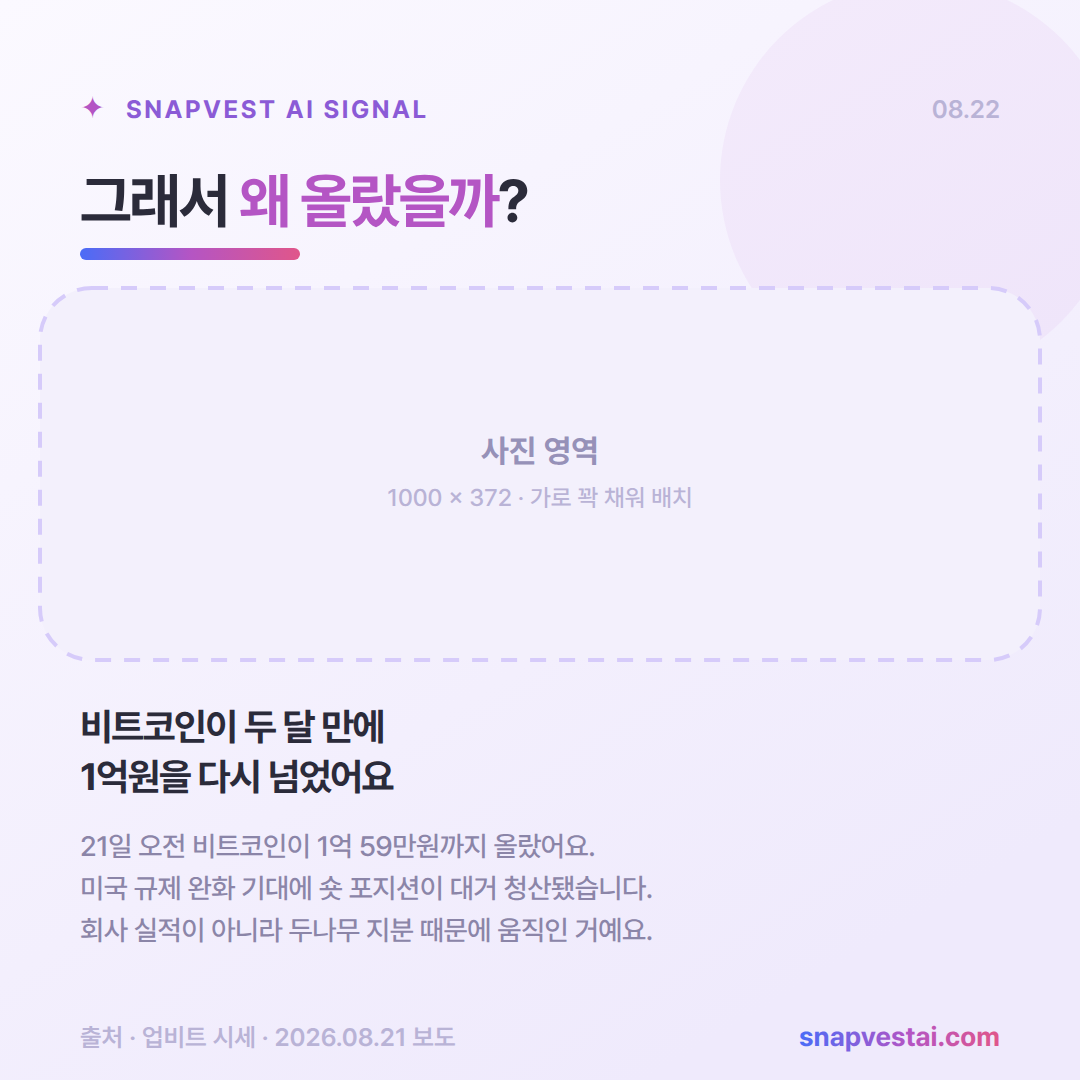
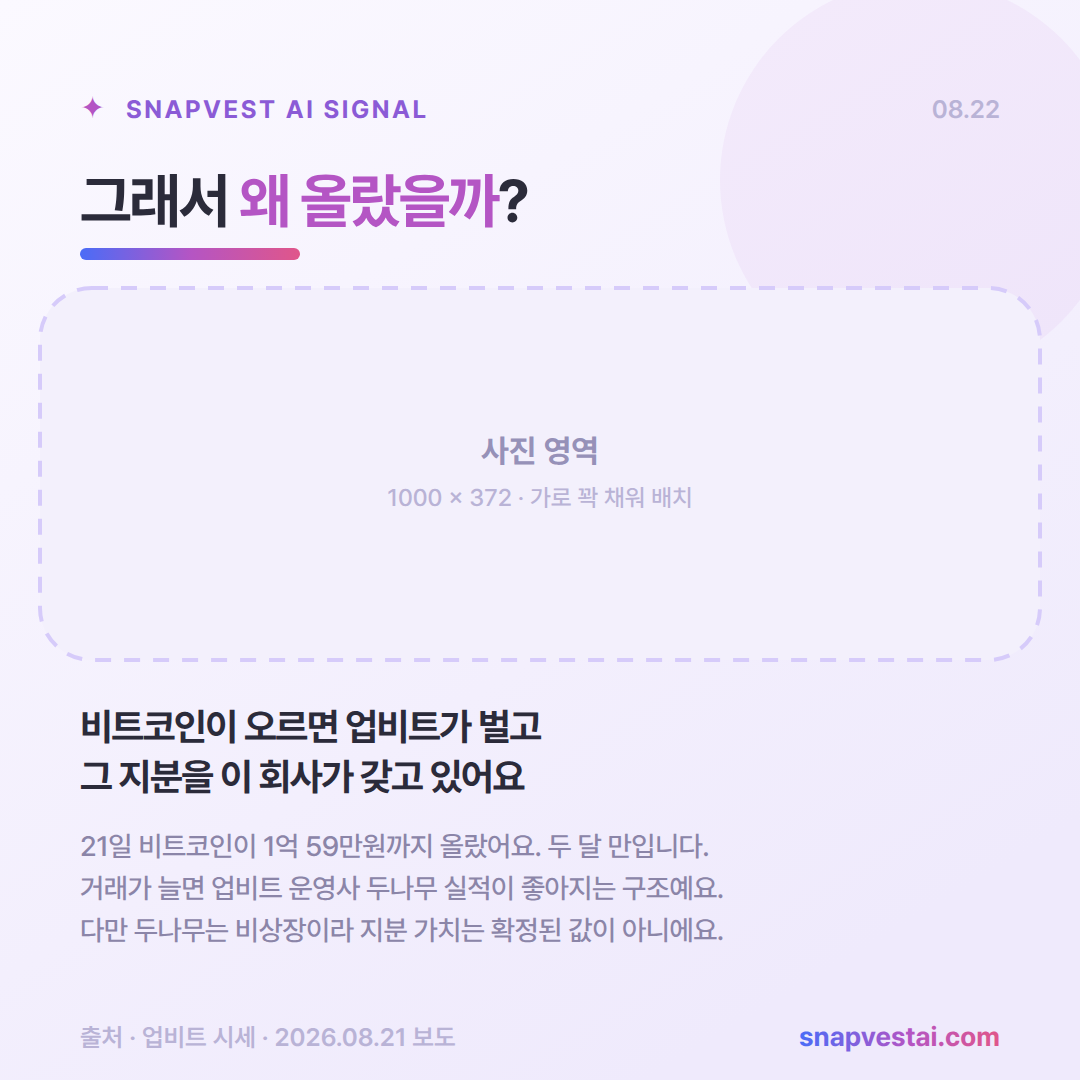
우리기술투자: 3번 카드를 두나무-비트코인 고리로 다시 씀
- 비트코인 상승 -> 업비트 거래 증가 -> 두나무 실적 -> 지분 보유사 순으로
  인과를 드러내도록 3번 카드 문구 교체
- 두나무가 비상장이라 지분 가치가 확정값이 아니라는 점을 마지막 줄에 남김
- 표지 원형 로고는 레터마크 '우' 로 임시 처리.
  로고 원본이 파일로 전달되지 않았고 Brandfetch 에도 자산이 없다
- 3번 카드 일봉 차트 이미지는 만들지 않았다.
  실제 일별 시세가 없어 그리면 지어낸 차트가 된다

Changed region(s): [[0.0611, 0.7639, 0.6722, 0.8861], [0.0611, 0.6417, 0.5194, 0.7333]]

diff --git a/cardnews/make_photos.py b/cardnews/make_photos.py
@@ -19,17 +19,14 @@ LAV = (239, 234, 252)          # #EFEAFC
 # (원본, 폭, 높이, 결과, 크롭)  — 높이는 generate.py 슬롯 규격
 # 크롭은 원본 픽셀 기준 (left, top, right, bottom). 안 쓰면 None.
 # 스톡 이미지에 오탈자·워터마크·엉뚱한 축 라벨이 박혀 있으면 여기서 잘라낸다.
-JOBS = [
-    ("board.jpg",    1000, 340, "photo-company.jpg", None),          # 2번 카드
-    ("ai-risk.jpg",  1000, 372, "photo-reason.jpg",  (32, 52, 181, 240)),   # 3번 카드
-]
+JOBS = []      # 이번 회차는 사진 원본이 아직 없다
 
 # 1번 카드 표지 원형 로고 (config 의 logo). 셋 중 하나로 쓴다.
 #   {"src": 파일명}                  로고 원본을 그대로
 #   {"src": 파일명, "crop": (l,t,r,b)}  로고에서 심볼만 잘라서
 #   {"text": "R"}                    로고가 없는 티커용 레터마크
 # SPAC 처럼 쓸 로고가 아예 없으면 None 으로 두면 빈 원이 나온다.
-CHIP = {"text": "R", "out": "logo-chip.png"}
+CHIP = {"text": "우", "out": "logo-chip.png"}
 CHIP_PX, CHIP_FILL = 240, 0.60                 # 캔버스 크기 · 마크가 차지할 가로 비율
 PURPLE = (139, 91, 214)                        # #8B5BD6
 FONT_BOLD = "/root/.fonts/Pretendard-Bold.otf"

diff --git a/cardnews/SOURCES.md b/cardnews/SOURCES.md
@@ -38,9 +38,23 @@
 
 ## 이미지
 
+| 자리 | 현재 상태 |
+|---|---|
+| 표지 원형 로고 | **레터마크 `우`** (임시). 로고 원본이 파일로 전달되지 않았다 |
+| 2번 카드 | 점선 플레이스홀더 |
+| 3번 카드 | 점선 플레이스홀더 |
+
+로고 원본은 Brandfetch 에도 없고(`wti.co.kr` 조회 결과 자산 0건),
+회사 홈페이지도 프록시에 막혀 있다. **사용자 첨부 파일이 유일한 경로다.**
+
+3번 카드에 넣을 일봉 차트 이미지는 **만들지 않았다.**
+실제 일별 시세가 없어서 그리면 지어낸 차트가 된다.
+일별 시세를 받으면 4번 카드 캔들이 실데이터가 되고, 그 차트를 이미지로 뽑아 쓸 수 있다.
+
+### 안 쓰기로 한 사진
+
 | 사진 | 판단 |
 |---|---|
-| 회사 로고 | **쓸 것.** 2번 카드 + 표지 원형 로고(심볼 크롭) |
 | 포트폴리오 표 | **쓰지 않음.** 아래 참고 |
 
 포트폴리오 표를 뺀 이유는 두 가지다.
